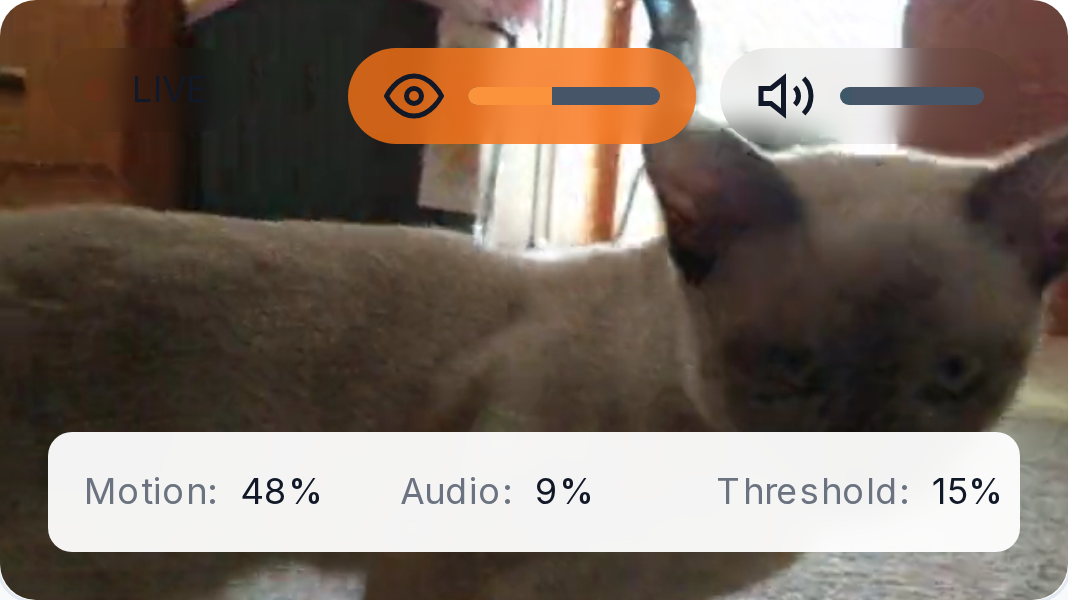
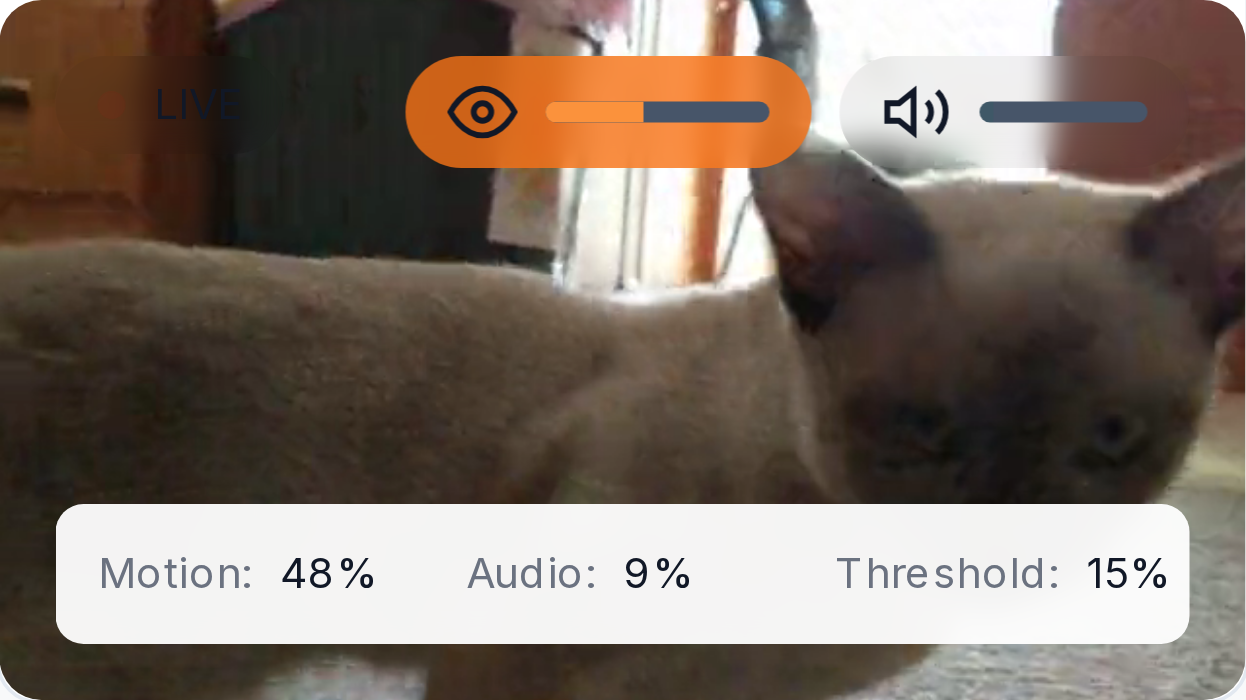
Home page: the captures and the card from Pictures run 43675299201, with their record; the portrait capture holds the camera view and two whole rows of readout tiles

diff --git a/apps/guardian-ui/src/lib/home-captures.ts b/apps/guardian-ui/src/lib/home-captures.ts
@@ -62,8 +62,8 @@ export function readProvenance(publicDir: string = path.join(process.cwd(), 'pub
 // The size of each crop at the capture job's viewports, for a build made
 // before the first capture is committed; the box keeps the crop's ratio.
 const EXPECTED_SIZES: Record<CaptureCropName, { width: number; height: number }> = {
-  phone: { width: 1068, height: 600 },
-  portrait: { width: 1068, height: 1335 },
+  phone: { width: 1246, height: 700 },
+  portrait: { width: 1271, height: 1481 },
   landscape: { width: 1824, height: 1140 },
 };
 

diff --git a/apps/guardian-ui/src/lib/page-last-changed.ts b/apps/guardian-ui/src/lib/page-last-changed.ts
@@ -10,7 +10,7 @@
  */
 
 export const PAGE_LAST_CHANGED: Record<string, string> = {
-  '/': '2026-11-14',
+  '/': '2026-11-15',
 };
 
 /** The day the home page's own files last changed, as YYYY-MM-DD. */
